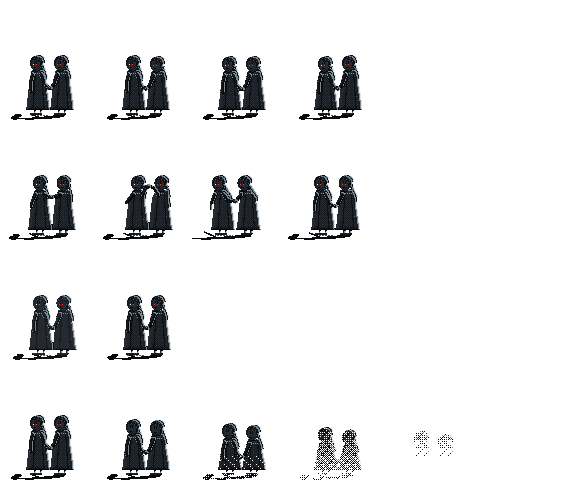
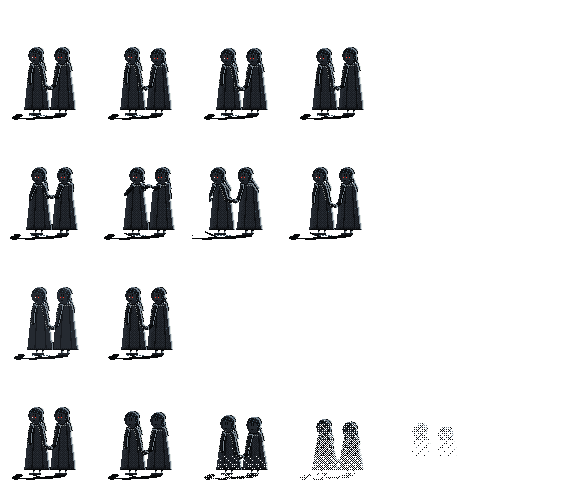
Zugabe: Funkstation am Pol fertig (Note 4, Gegner im Kampf mit kaltem Randlicht lesbar, biom-test 12/19)
Claude-Session: https://claude.ai/code/session_01TghvEfjLh3w7y1uAeKR46M

diff --git a/prototype/js/scenes/world/funkstation.js b/prototype/js/scenes/world/funkstation.js
@@ -13,6 +13,7 @@ const EIS = ['#020101', '#060404', '#0b0807', '#110c0a', '#18110d', '#201712', '
 const HIMMEL = ['#040303', '#080606', '#0d0a08', '#130e0c', '#1a1410', '#231a15', '#2e221b', '#3b2c22'];
 const HOLZ = ['#070504', '#0f0a07', '#18100b', '#231710', '#301f15', '#3f291b', '#523524'];
 const KUPFER = ['#2a150b', '#4e2a16', '#7a4222', '#a85c30', '#c0703e', '#e2a070'];
+const KALT = ['#0c1014', '#141b22', '#1e2832', '#2a3846', '#3a4a5a', '#4e6070', '#647686'];
 const OR = '#ff8a2a', OR_K = '#fff2d6', OR_G = '#3a1a08', OR_G2 = '#5c2a0e', PAPIER = '#cbb8a2';
 const frac = v => v - Math.floor(v);
 const schneeMat = (ton, x) => Object.assign({ k: SCHNEE.slice(1, 9), r: ['#a48a74', '#ece0d2'], ton, fase: 1.5, rand: 2, schatten: 2, muster: (px, py) => (B.fbm(px * .07, py * .2, 5, 2) - .5) * .9 }, x || {});
@@ -88,7 +89,7 @@ function mast(K, eb, x, yb, yt, wb, tiefe, o) {
   // Abspannseile mit Eishaar
   (o.seile || []).forEach(([fy, ax, ay]) => {
     const sx = (L(fy) + R(fy)) / 2, sy = fy, n = Math.ceil(Math.hypot(ax - sx, ay - sy));
-    const e = K.e[o.seilEbene || eb], c = B.pk(B.mix('#16110d', K.fern, tiefe)), cl = B.pk(B.mix(SCHNEE[9], K.fern, tiefe * .8)), cd = B.pk(B.mix(SCHNEE[5], K.fern, tiefe));
+    const e = K.e[o.seilEbene || eb], c = B.pk(B.mix('#16110d', K.fern, tiefe)), cl = B.pk(B.mix(o.hell ? SCHNEE[9] : SCHNEE[7], K.fern, tiefe * .8)), cd = B.pk(B.mix(SCHNEE[4], K.fern, tiefe));
     const r = B.rng(Math.round(ax * 13 + ay));
     for (let i = 0; i <= n; i++) { const q = i / n, px = sx + (ax - sx) * q, py = sy + (ay - sy) * q + Math.sin(q * Math.PI) * n * .03; e.set(px, py, c);
       if (i % 2 === 0 && r() < .75 && q > .04 && q < .96) { const len = Math.round((2 + r() * 10) * (o.haar || 1) * (1 - Math.abs(q - .45))); for (let j = 1; j <= len; j++) e.set(px + Math.sin(j * .5 + i) * .4, py + j, j < len * .4 ? cl : (j % 2 || j < len * .7) ? cd : 0); } }
@@ -185,11 +186,11 @@ function morsetisch(K, x, y, s) {
   return { ex, ey, ew, eh };
 }
 // Regal mit Glasakkus (Kupferplatten in Säure)
-function akkuregal(K, eb, x, y, w, h, tiefe) {
-  const m = B.maske(); for (let i = 0; i < 4; i++) m.rect(x, y - h + i * h / 3.2, w, 3); m.rect(x, y - h, 3, h); m.rect(x + w - 3, y - h, 3, h); K.form(eb, m, tiefe, holzMat(1.4));
+function akkuregal(K, eb, x, y, w, h, tiefe, still) {
+  const m = B.maske(); for (let i = 0; i < 4; i++) m.rect(x, y - h + i * h / 3.2, w, 3); m.rect(x, y - h, 3, h); m.rect(x + w - 3, y - h, 3, h); K.form(eb, m, tiefe, holzMat(1.4, still ? { rand: 0 } : {}));
   for (let r = 0; r < 3; r++) for (let i = 0; i < Math.floor(w / 13); i++) { const ax = x + 6 + i * 13, ay = y - h + (r + 1) * h / 3.2 - 1, ah = h / 3.2 - 5; const a = B.maske(); a.rect(ax, ay - ah, 9, ah);
-    K.form(eb, a, tiefe, { k: ['#0a0807', '#16110d', '#241b15', '#3a2c22'], r: ['#8a7262', '#e0cdb8'], ton: 1.2, fase: 0, rand: 1, muster: (px, py) => ((Math.round(px - ax) === 3 || Math.round(px - ax) === 6) && py > ay - ah + 2 ? 1.6 : 0) });
-    for (let j = 2; j < ah; j++) { K.e[eb].set(ax + 3, ay - ah + j, B.pk(B.mix(KUPFER[3], K.fern, tiefe))); K.e[eb].set(ax + 6, ay - ah + j, B.pk(B.mix(KUPFER[2], K.fern, tiefe))); } }
+    K.form(eb, a, tiefe, { k: ['#0a0807', '#16110d', '#241b15', '#3a2c22'], r: ['#8a7262', '#e0cdb8'], ton: 1.2, fase: 0, rand: still ? 0 : 1, muster: (px, py) => ((Math.round(px - ax) === 3 || Math.round(px - ax) === 6) && py > ay - ah + 2 ? 1.6 : 0) });
+    for (let j = 2; j < ah; j++) { K.e[eb].set(ax + 3, ay - ah + j, B.pk(B.mix(KUPFER[still ? 1 : 3], K.fern, tiefe))); K.e[eb].set(ax + 6, ay - ah + j, B.pk(B.mix(KUPFER[still ? 0 : 2], K.fern, tiefe))); } }
 }
 function kabelDecke(K, eb, n, x0, x1, y1) { const r = B.rng(K.o.seed * 5 + 3); for (let i = 0; i < n; i++) { const a = r.f(x0, x1), b = a + r.f(-60, 60); draht(K, eb, a, -M, b, -M, r.f(20, y1), '#0a0705'); } }
 
@@ -202,7 +203,7 @@ function amMast(K) {
   // Ferne: niedrige Presseisrücken
   const fern = B.maske(); fern.fn(-M, vy - 20, W + M, vy + 2, (x, y) => y > vy - 2 - B.rausch1(x * .05, K.o.seed) * 7 - Math.max(0, Math.sin(x * .013) * 5)); K.form(1, fern, .6, schneeMat(1.2));
   // Hütte links im Mittelgrund
-  const hu = huette(K, 2, 34, vy + 14, 92, 42, .05, { offen: true });
+  const hu = huette(K, 2, -14, vy + 12, 70, 34, .12, { offen: true });
   // Mast rechts, steigt aus dem Bild
   const ms = mast(K, 2, 356, vy + 24, -M - 4, 34, 0, { seile: [[30, 236, vy + 18], [30, 488, vy + 30], [92, 282, vy + 20], [92, 452, vy + 26], [4, 196, vy + 14]], haar: 1.8 });
   void ms;
@@ -228,27 +229,26 @@ function amMast(K) {
 // rechts das Akkuregal. Der Papierstreifen läuft über die Dielen in eine Ritze, aus der es orange blinkt.
 function funkraum(K) {
   const fr = K.fr, vy = 150, P = B.persp(250, vy); K.split = [158, 172];
-  wand(K, vy, { lichter: [{ x: 110, y: 110, r: 170, s: .6 }, { x: 380, y: 60, r: 120, s: .25 }] });
-  fenster(K, 1, 196, 30, 92, 64, { mastX: 262, hell: .5 });
-  // Kalender, Karte an der Wand
-  const ka = B.maske(); ka.rect(310, 46, 30, 40); K.form(1, ka, .1, { k: ['#2a2018', '#3e3024', '#54443a', '#6e5c4c'], r: ['#a48a74', '#d8c4ac'], ton: 1.2, fase: 0, rand: 1, muster: (px, py) => (Math.round(py) % 6 === 0 ? -1 : 0) + (B.hash(px, py, 3) < .1 ? -.8 : 0) });
-  const kk = B.maske(); kk.rect(352, 40, 46, 32); K.form(1, kk, .15, { k: ['#2a2018', '#3e3024', '#54443a', '#6e5c4c'], r: ['#a48a74', '#d8c4ac'], ton: 1.6, fase: 0, rand: 1, muster: (px, py) => (Math.abs(B.fbm(px * .1, py * .1, 2, 2) - .5) < .03 ? -1.2 : 0) });
-  kabelDecke(K, 1, 5, 20, 460, 40);
-  dielen(K, P, vy, { lichter: [{ x: 120, y: vy + 10, r: 160, s: .7 }] });
-  const mt = morsetisch(K, 2, vy + 30, 1.8);
-  akkuregal(K, 2, 400, vy + 2, 80, 76, .05);
+  // Wand: in der Mitte, wo die Gegner stehen, dunkel und ruhig; Licht nur an den Rändern (Lampe links)
+  wand(K, vy, { lichter: [{ x: 10, y: 120, r: 120, s: .55 }] });
+  B.dith(K.e[1], 110, -M, 430, vy + 2, HOLZ[0], (x, y) => .55 * Math.min(1, Math.min(x - 110, 430 - x) / 50) * Math.min(1, (vy + 2 - y) / 30));
+  // Fenster hoch über den Köpfen: kaltes Schneelicht, ruhig; der Mast als dünne Senkrechte
+  fenster(K, 1, 196, 6, 92, 34, { mastX: 262, hell: .55 - fr * .2, aussen: KALT });
+  kabelDecke(K, 1, 3, 20, 140, 26);
+  dielen(K, P, vy, { lichter: [{ x: 30, y: vy + 20, r: 140, s: .55 }] });
+  // Morsetisch ganz links, angeschnitten; Röhren klein und warm am Rand
+  const mt = morsetisch(K, -62, vy + 30, 1.6);
+  // Akkuregal rechts am Rand, ohne helle Kanten
+  akkuregal(K, 2, 432, vy + 2, 70, 70, .25, true);
   // Streifen vom Tisch über die Dielen in die Ritze; dort blinkt es
-  const [rx, ry] = P.q(.8, 0, 3.4);
-  streifen(K, [[mt.ex + 10, vy + 28], [mt.ex + 40, vy + 34], [rx - 40, ry - 6], [rx - 6, ry]], 2);
+  const [rx, ry] = P.q(1.4, 0, 2.6);
+  streifen(K, [[mt.ex + 40, vy + 30], [mt.ex + 70, vy + 44], [rx - 40, ry - 4], [rx - 6, ry]], 2);
   const ri = B.maske(); ri.poly([[rx - 10, ry - 1], [rx + 24, ry - 3], [rx + 26, ry + 1], [rx - 8, ry + 3]]); B.form(K.e[K.eb(ry)], ri, { k: [B.pk('#000000'), B.pk('#120805')], ton: 0, fase: 0, rand: 0 });
   K.anim.push({ p: B.PAR[K.eb(ry)], f(ctx, t, ox, oy) { const bit = MORSE[Math.floor(t * 3.2) % MORSE.length]; ctx.fillStyle = bit ? OR : '#3a1a08'; ctx.fillRect(Math.round(rx - 6) + ox, Math.round(ry) + oy, 28, 1); } });
   B.gluehen(K.e[K.eb(ry)], rx + 8, ry, 24, OR_G, .6 + fr * .3);
-  // Ofen rechts hinten (kalt), Stuhl
-  const of = B.maske(); of.ell(366, vy - 18, 13, 15); of.rect(356, vy - 6, 20, 4); of.rect(357, vy - 2, 2, 4); of.rect(373, vy - 2, 2, 4); of.rect(363, -M, 6, vy - 30 + M); of.rect(354, vy - 34, 24, 3); K.form(2, of, .05, eisenMat(1.3, { rand: 2, fase: 1.5, muster: (px, py) => (Math.abs(py - (vy - 22)) < .6 ? .8 : 0) }));
-  const st = B.maske(); st.rect(160, vy - 10, 22, 3); st.rect(162, vy - 10, 2, 16); st.rect(178, vy - 10, 2, 16); st.rect(178, vy - 34, 2, 26); K.form(3, st, 0, holzMat(1.5));
   // Vordergrund: Tischkante unten links, Kabelbündel rechts
   const v = B.maske(); v.rect(-M, 246, 120, 40); v.kap(400, H + M, 470, 224, 6, 4); v.kap(430, H + M, 492, 236, 5, 4); K.form(5, v, 0, holzMat(1.1));
-  B.partikel(K, { n: 18, farben: [HOLZ[5], SCHNEE[8]], vx: 1, vy: .5, wob: 1.5, wf: .2, x0: 0, x1: 480, y0: 0, y1: 240, p: .8 });
+  B.partikel(K, { n: 14, farben: [HOLZ[5], KALT[3]], vx: 1, vy: .5, wob: 1.5, wf: .2, x0: 0, x1: 480, y0: 0, y1: 240, p: .8 });
   K.reihen = [{ y: 168, skala: .9, nebel: .15 }, { y: 192, skala: 1, nebel: .05 }, { y: 214, skala: 1, nebel: 0 }];
   return { mitte: [250, 208], P };
 }

diff --git a/prototype/js/scenes/world/waage.js b/prototype/js/scenes/world/waage.js
@@ -187,7 +187,7 @@ function registratur(K, P, X, Z0, Z1, o) {
   for (let Z = Z0; Z <= Z1; Z *= 1.03) { unten.push(P.q(X, 0, Z)); oben.push(P.q(X, hoehe + Math.sin(Z) * .4, Z)); }
   const m = B.maske(); m.poly([...unten, ...oben.reverse()]);
   const seite = X < 0 ? -1 : 1;
-  K.form(eb, m, o.tiefe || .05, holzMat(2.2, { muster: (x, y) => { const Z = (X * P.h) / Math.max(1, Math.abs(x - P.vx)) * Math.sign(X * (x - P.vx) || 1), Y = 1 - (y - P.vy) * Z / P.h; const fz = frac(Z / .35), fy = frac(Y / .28);
+  K.form(eb, m, o.tiefe || .05, holzMat(3.4, { k: KACHEL.slice(2, 10), r: [KACHEL[11], '#e6dcbc'], muster: (x, y) => { const Z = (X * P.h) / Math.max(1, Math.abs(x - P.vx)) * Math.sign(X * (x - P.vx) || 1), Y = 1 - (y - P.vy) * Z / P.h; const fz = frac(Z / .35), fy = frac(Y / .28);
     if (fz < .08 || fy < .1) return -1.4; const id = Math.floor(Z / .35) * 31 + Math.floor(Y / .28); return (B.hash(id, 1, 5) < .05 ? -2 : 0) + (fy > .4 && fy < .55 && fz > .4 && fz < .6 ? 2.2 : 0) + (B.hash(id, 2, 5) - .5) * .5 - Y * .07; } }));
   void seite;
   return m;
@@ -242,7 +242,7 @@ function halle(K, o) {
   bahnen(K, [[430, .07, .5], [330, .05, .45], [520, .09, .4]], [1, 2]);
   // Schalter in der Rückwand
   for (const X of [-3.6, -1, 3.4]) { const [x, y] = P.q(X, 0, 10.8), k = P.k(10.8); schalter(K, x - k * .7, y, k * 1.4, k * 1.25, 1, { tiefe: .22 }); }
-  const wg = waage(K, P, { X: -1.2, Z: 7.4, Yb: 7.6, L: 8.4, kipp: .1 + fr * .05, tiefL: 6.2, tiefR: 2.6, zunge: 1.8, schale: 1.5, ebene: 2, tiefe: .06 });
+  const wg = waage(K, P, { X: -3.6, Z: 7.4, Yb: 7.6, L: 8.4, kipp: .1 + fr * .05, tiefL: 6.2, tiefR: 2.6, zunge: 1.8, schale: 1.5, ebene: 2, tiefe: .06 });
   bank(K, P, -6.2, -4.3, 3.1, { leer: .2 });
   bank(K, P, -6.3, -4.6, 5.6, { leer: .3, tiefe: .1 });
   if (fr > .5) bank(K, P, 4.6, 6.2, 4.4, { leer: .35, tiefe: .05 });
@@ -280,13 +280,13 @@ function schalterhalle(K, o) {
     if (an) { K.glut((a[0] + b[0]) / 2, a[1] - h * .66, h * 1.1, LAMPE_G, .8, [2, 3]); K.licht((a[0] + b[0]) / 2, a[1] - h * .66, LAMPE, h, .6); }
   }
   // Registratur links, bis ins Wasser
-  registratur(K, P, -3.4, 1.1, 22, { hoehe: 9, ebene: 2 });
+  registratur(K, P, -4.4, 1.1, 22, { hoehe: 9, ebene: 2 });
   // Leiter an der Registratur
-  const lm = B.maske(), l0 = P.q(-3.1, 0, 3.2), l1 = P.q(-3.3, 5.5, 3.6); lm.kap(l0[0], l0[1], l1[0], l1[1], 1.4, 1.2); lm.kap(l0[0] + 12, l0[1], l1[0] + 10, l1[1], 1.4, 1.2);
+  const lm = B.maske(), l0 = P.q(-4.1, 0, 3.2), l1 = P.q(-4.3, 5.5, 3.6); lm.kap(l0[0], l0[1], l1[0], l1[1], 1.4, 1.2); lm.kap(l0[0] + 12, l0[1], l1[0] + 10, l1[1], 1.4, 1.2);
   for (let i = 1; i < 12; i++) { const q = i / 12; lm.kap(l0[0] + (l1[0] - l0[0]) * q, l0[1] + (l1[1] - l0[1]) * q, l0[0] + 12 + (l1[0] - l0[0] - 2) * q, l0[1] + (l1[1] - l0[1]) * q, .8, .8); }
   K.form(3, lm, 0, holzMat(2));
   // Papierbahnen aus einer offenen Schublade, steigen ins Wasser
-  const pb = B.maske(), s0 = P.q(-3.3, 2.2, 5.2); for (let j = 0; j < 3; j++) { const pts = []; for (let i = 0; i <= 12; i++) pts.push([s0[0] + j * 4 + Math.sin(i * .6 + j) * (2 + i * .5), s0[1] - i * 8]); pb.pfad(pts, 1.6, 1.2); }
+  const pb = B.maske(), s0 = P.q(-4.3, 2.2, 5.2); for (let j = 0; j < 3; j++) { const pts = []; for (let i = 0; i <= 12; i++) pts.push([s0[0] + j * 4 + Math.sin(i * .6 + j) * (2 + i * .5), s0[1] - i * 8]); pb.pfad(pts, 1.6, 1.2); }
   K.form(2, pb, .05, { k: KACHEL.slice(6, 11), r: ['#e6dcbc'], ton: 2.2, fase: 0, rand: 1 });
   papier(K, 30, { x0: 0, x1: 300 });
   B.partikel(K, { n: 30, farben: [WASSER[8], LICHTNETZ[0]], vx: 0, vy: -5, wob: 2, wf: .5, p: .5 });

diff --git a/tools/sprites/gegner/zwillinge.js b/tools/sprites/gegner/zwillinge.js
@@ -19,9 +19,9 @@ module.exports = {
   id: 'zwillinge', biom: 'waisenhaus', zone: 'waisenhaus', w: 96, h: 120, fuss: [52, 115], kopf: [50, 46], rimBis: 113,
   varianten: {
     // a: nebeneinander, offenes Haar; den Schatten wirft die vordere (linke)
-    zwillinge_a: { xs: [40, 64], schatten: 0, zoepfe: false },
+    zwillinge_a: { xs: [38, 64], schatten: 0, zoepfe: false },
     // b: Zöpfe; den Schatten wirft die hintere (rechte), er läuft unter der vorderen hindurch
-    zwillinge_b: { xs: [38, 62], schatten: 1, zoepfe: true },
+    zwillinge_b: { xs: [37, 63], schatten: 1, zoepfe: true },
   },
   // Silhouetten-Probe (verworfen): die beiden eng hintereinander, fast deckungsgleich; schwarz ein einzelnes Kind
   // mit breitem Rock (zu nah am Schlafwagenkind). Erst der Abstand und die gefassten Hände zeigen zwei.
@@ -37,9 +37,9 @@ module.exports = {
     if (p.tod) { fall = r(p.q * 20); }
     const kinder = v.xs.map((x0, i) => {
       const cx = x0 + dx + (i === 0 ? 0 : -dx * 0.2), T = atem[i] + fall * (i === 0 ? 1 : 1.2);
-      const top = FY - 58 + T;
-      const hemd = Pg([[cx - 5 + lean, top + 15], [cx + 5 + lean, top + 15], [cx + 7, top + 22], [cx + 11, FY - 7], [cx + 11, FY - 5], [cx - 11, FY - 5], [cx - 10, FY - 7], [cx - 7, top + 22]], 'haut', { rd: 1.4, tone: 0.18 });
-      const kopf = E(cx - 1 + lean, top + 7, 7, 7.6, 'haut', { pf: 'bevel', tone: 0.1 });
+      const top = FY - 66 + T;
+      const hemd = Pg([[cx - 5.5 + lean, top + 16], [cx + 5.5 + lean, top + 16], [cx + 7.5, top + 24], [cx + 12, FY - 7], [cx + 12, FY - 5], [cx - 12, FY - 5], [cx - 11, FY - 7], [cx - 7.5, top + 24]], 'haut', { rd: 1.4, tone: 0.18 });
+      const kopf = E(cx - 1 + lean, top + 7.5, 7.6, 8.2, 'haut', { pf: 'bevel', tone: 0.1 });
       // Haar: offen bis zur Hüfte (a) oder zwei Zöpfe (b), hinten
       const haar = [];
       if (!v.zoepfe) haar.push(Pg([[cx + 1 + lean, top - 0.5], [cx + 7 + lean, top + 3], [cx + 8 + lean * 0.5, top + 18], [cx + 8, top + 32], [cx + 4, top + 34], [cx + 2, top + 16]], null, { rd: 1 }));
@@ -104,7 +104,7 @@ module.exports = {
           P.set(x, y, (x * 3 + y) % 9 === 0 ? 'nass' : (x - K.cx) % 3 === 0 ? 'k0' : c > 2 ? 'k2' : 'k1');
         }
         // Gesicht: Scheitel nass, Pony über der Stirn; Augen rot; das Kind ohne Schatten hat die helleren
-        const kx = K.cx - 1 + lean, ky = K.top + 8;
+        const kx = K.cx - 1 + lean, ky = K.top + 8.5;
         for (let y = r(ky - 8); y <= r(ky + 8); y++) for (let x = r(kx - 8); x <= r(kx + 8); x++) {
           if (!ist(x, y, KOPF[i])) continue; const c = P.get(x, y); if (c < 1 || c > 4) continue;
           const ddx = x + 0.5 - kx, ddy = y + 0.5 - ky;

diff --git a/tools/sprites/gegner/funker.js b/tools/sprites/gegner/funker.js
@@ -107,6 +107,11 @@ module.exports = {
       // Anorak: Fellsaum hell gefleckt, Nähte (Tal und Grat), Falten vom Gürtel nach unten
       for (let x = X - 18; x <= X + 19; x += 2) { const yy = Y + 50 + ((x * 7) % 3); P.auf(x, yy, (x % 4) ? 'k3' : 'r1'); P.auf(x + 1, yy + 2, 'k1'); }
       for (const [x0, y0, x1, y1] of [[X + 6, Y - 2, X + 9, Y + 30], [X - 4, Y + 36, X - 7, Y + 50], [X + 5, Y + 36, X + 7, Y + 51], [X + 13, Y + 36, X + 16, Y + 50]]) { P.line(x0, y0, x1, y1, 'k0', true); P.line(x0 + 1, y0 + 1, x1 + 1, y1, 'k3', true); }
+      // Anorak in Bahnen: jede Bahn hat eine helle Kante (Fase) zum Licht und eine dunkle Naht; unten ein Flicken
+      for (const bx of [X - 11, X + 4, X + 11]) for (let y = Y + 36; y < Y + 50; y++) { P.auf(bx, y, 'k0'); if ((y + bx) % 2 === 0) P.auf(bx + 1, y, 'r1'); else P.auf(bx + 1, y, 'k3'); }
+      for (let y = Y + 4; y < Y + 30; y++) { P.auf(X + 12 + ((y - Y) > 16 ? 1 : 0), y, 'k0'); if (y % 2) P.auf(X + 13 + ((y - Y) > 16 ? 1 : 0), y, 'k3'); }
+      for (let y = Y + 40; y < Y + 46; y++) for (let x = X - 8; x < X - 3; x++) P.auf(x, y, (x === X - 8 || y === Y + 40) ? 'k3' : (x + y) % 3 ? 'k2' : 'k1');
+      P.glow(r(X - 2), r(Y + 6), 8, 0.35);
       // Brustlatz mit Knebelknöpfen aus Holz, Fellkante entlang der Öffnung
       for (let y = Y + 4; y < Y + 30; y += 2) { P.auf(X - 1, y, 'k3'); P.auf(X - 2, y + 1, (y >> 1) % 2 ? 'r1' : 'k2'); }
       for (let i = 0; i < 3; i++) { P.auf(X - 6, Y + 8 + i * 7, 'k3'); P.auf(X - 5, Y + 8 + i * 7, 'r1'); }

diff --git a/tools/sprites/gegner/schlagbaum.js b/tools/sprites/gegner/schlagbaum.js
@@ -110,7 +110,11 @@ module.exports = {
       if (!mantel) for (let x = rx - 14; x < rx + 22; x++) { const y = ry + 43 + ((x * 7) % 3); if (P.get(x, y) && P.get(x, y) <= 4 && (x & 1)) P.set(x, y - 1, 'k3'); }
       // Knopfreihe (Messing) und Koppelschloss
       for (let i = 0; i < 4; i++) P.auf(rx - 1, ry + 6 + i * 6, i % 2 ? 'k3' : 'messing');
-      if (mantel) { P.auf(rx - 2, ry + 30, 'messing'); P.auf(rx - 1, ry + 30, 'messing'); P.auf(rx - 2, ry + 29, 'r1'); }
+      if (mantel) { P.auf(rx - 2, ry + 30, 'messing'); P.auf(rx - 1, ry + 30, 'messing'); P.auf(rx - 2, ry + 29, 'r1');
+        // Kreuzriemen von der hinteren Schulter zur Hüfte, Messingbeschlag; Taschenklappen; Schulterstück
+        P.line(rx + 9, ry + 1, rx - 9, ry + 29, 'k0', true); P.line(rx + 10, ry + 1, rx - 8, ry + 29, 'r1', true); P.auf(rx, ry + 15, 'messing');
+        for (const dx of [-10, 6]) { P.line(rx + dx, ry + 38, rx + dx + 6, ry + 38, 'k0', true); P.line(rx + dx, ry + 37, rx + dx + 6, ry + 37, 'k3', true); }
+        for (let i = 0; i < 5; i++) P.auf(rx + 4 + i * 2, ry - 1 + (i % 2), i % 2 ? 'r1' : 'messing'); }
       // Mützenabzeichen, Kragenspiegel
       P.auf(r(kopfX + 1), r(kopfY - 8 - (v.muetze === 'tschako' ? 6 : 0)), 'messing');
       P.auf(rx - 6, ry - 3, 'siegel'); P.auf(rx - 5, ry - 3, 'siegel');

diff --git a/tools/sprites/gegner/telegrafistin.js b/tools/sprites/gegner/telegrafistin.js
@@ -101,7 +101,8 @@ module.exports = {
       for (const [x0, y0, x1, y1] of [[X - 4, Y + 1, X - 5, Y + 13], [X + 2, Y, X + 4, Y + 13], [X + 5, Y + 2, X + 7, Y + 12]]) { P.line(x0, y0, x1, y1, 'k1', true); P.line(x0 + 1, y0, x1 + 1, y1, 'k3', true); }
       for (let i = 0; i < 4; i++) { P.auf(X - 1, Y + 15 + i * 2, 'kupfer'); P.auf(X - 2, Y + 16 + i * 2, 'k3'); }
       // Rock: Bahnen, Saumband, eine Lichtfalte
-      for (const [x0, x1] of [[X - 4, X - 7], [X + 1, X + 1], [X + 6, X + 9]]) { P.line(x0, Y + 26, x1, 111, 'k0', true); P.line(x0 + 1, Y + 27, x1 + 1, 111, 'k2', true); }
+      for (const [x0, x1] of [[X - 6, X - 11], [X - 2, X - 4], [X + 2, X + 3], [X + 6, X + 10], [X + 10, X + 16]]) { P.line(x0, Y + 26, x1, 110, 'k0', true); P.line(x0 + 1, Y + 27, x1 + 1, 110, 'k3', true); for (let y = Y + 30; y < 108; y += 3) { const q = (y - Y - 26) / (110 - Y - 26); P.auf(r(x0 + 2 + (x1 - x0) * q), y, 'r1'); } }
+      for (let x = r(wx - 13); x <= wx + 18; x++) { P.auf(x, 106, x % 2 ? 'k3' : 'r1'); P.auf(x, 107, 'k0'); }
       P.line(r(wx - 12), 109, r(wx + 13), 109, 'k3', true);
       // Taste: Kupferhebel, am Kontakt springt ein Funke, wenn sie drückt
       const TX = r(tx), TY = r(ty);

diff --git a/prototype/js/scenes/world/waisenhaus.js b/prototype/js/scenes/world/waisenhaus.js
@@ -376,7 +376,7 @@ function halle(K, cfg) {
     const g = B.maske(); g.poly([[372, 128], [480 + M, 30], [480 + M, 34], [372, 132]]); for (let i = 0; i < 9; i++) { const x = 378 + i * 12, y0 = 128 - (x - 372) * 0.9; g.rect(x, y0, 2, 164 - (x - 372) * 0.92 - y0); } g.rect(370, 126, 6, 46); K.form(2, g, 0.05, { k: HOLZ, r: RAND, ton: 3, fase: 0, rand: 1 }); }
   // Boden: Linoleum, ein Lichtfleck des Fensters fällt nach vorn, eine lange Reihe nasser Füße quer (der Appell)
   const spuren = [];
-  if (!cfg.leer) for (let i = 0; i < 9 + Math.round(fr * 6); i++) { const X = -2.6 + i * 0.36, Z = 4.4; spuren.push([X - 0.05, Z, 0.03], [X + 0.05, Z, 0.03]); }
+  if (!cfg.leer) for (let i = 0; i < 9 + Math.round(fr * 6); i++) { const X = -2.9 + i * 0.42 + (i > 6 ? 0.5 : 0), Z = 3.6; spuren.push([X - 0.08, Z, 0.055], [X + 0.08, Z + 0.04, 0.055]); }
   boden(K, P, vy + 1, { flecken: [[[-0.9, 9], [0.9, 9], [1.6, 2.6], [-1.6, 2.6]]], spuren });
   if (cfg.leer) {
     // Übergang: ein Bett beiseitegeschoben, eine Luke im Boden, Leiter nach unten, kaltes Licht von unten

diff --git a/tools/sprites/gegner/heimleiterin.js b/tools/sprites/gegner/heimleiterin.js
@@ -100,6 +100,8 @@ module.exports = {
         if (!ist(x, y, ROCK)) continue; const c = P.get(x, y); if (c < 1 || c > 4) continue;
         const u = (y - wy) / (FY - wy);
         for (const o of [-14, -6, 3, 12, 22]) { const lx = cx + o * u * 1.1 + (o > 0 ? o * 0.15 : 0); if (Math.abs(x - lx) < 0.6) P.set(x, y, 'k0'); else if (Math.abs(x - lx - 1) < 0.6 && b(x, y) < 0.3 + u * 0.5) P.set(x, y, 'k3'); }
+        // Licht vom Fenster hinten rechts: die rechte Seite des Rocks fängt einen breiten, gedämpften Schein (Fase)
+        { let rr = x; while (ist(rr + 1, y, ROCK)) rr++; const d = rr - x; if (d < 7 && d > 1 && b(x, y) < 0.55 - d * 0.07) P.set(x, y, d < 3 ? 'k3' : 'k2'); }
         if (y > FY - 8 && y < FY - 5) P.set(x, y, y === FY - 7 ? 'k0' : (b(x, y) < 0.5 ? 'k3' : c));
         if (y >= FY - 1) P.set(x, y, 'k0');
       }

diff --git a/docs/auftrag-2/biome/funkstation.md b/docs/auftrag-2/biome/funkstation.md
@@ -17,9 +17,9 @@ Auf dem schwarzen Eis steht eine Hütte aus Teerpappe und Planken, bis zu den Fe
 
 - **Wahrzeichen:** der **Antennenmast** mit dem Eishaar an den Seilen (V0 riesig in der Mitte, in der Hütte durch das Fenster, im Wächter-Raum hinter der Scheibe) und der **Morsetisch** mit Taste, Kopfhörer, Röhrenempfänger und Lampe (V1 im Funkraum, Ereignis, Krämer).
 - **Falsches Detail:** Die Morsezeichen kommen **von unter dem Eis**, und sie buchstabieren deinen Namen, bevor du ihn gesagt hast. Im Bild: Unter dem schwarzen Eis blinken Lichter in Kurz und Lang, in einer Reihe, die genau auf dich zuläuft (animiert, nie erklärt). Der Antennendraht führt nicht von Mast zu Mast, sondern vom Mast **in ein Loch im Eis**. Der Papierstreifen des Schreibempfängers läuft aus der Tür, über den Schnee, in dasselbe Loch.
-- **Palette:** Bakelit-Braun nahe Schwarz (`#060403 … #311d14`), Randlicht Schneeweiß im Lampenlicht (`#a48a74` / `#f4ebe0`), Augen und Röhren warmes Röhrenorange (`#ff8a2a`, Kern `#fff2d6`), Zusatzfarbe Kupfer (`#c0703e`) für Spulen, Drähte, Kopfhörer. Der Schnee in den Szenen ist warm-weiß im Lampenlicht und braungrau im Schatten, das Eis darunter schwarzbraun.
+- **Palette:** Bakelit-Braun nahe Schwarz (`#060403 … #311d14`), Randlicht der Figuren **kaltes Schneelicht** aus Fenstern und Polarhimmel (`#6a8698` / `#d6eaf4`), ein Ton, der im warmen Hintergrund nicht vorkommt, Augen und Röhren warmes Röhrenorange (`#ff8a2a`, Kern `#fff2d6`), Zusatzfarbe Kupfer (`#c0703e`) für Spulen, Drähte, Kopfhörer. Der Schnee in den Szenen ist warm-weiß im Lampenlicht und braungrau im Schatten, das Eis darunter schwarzbraun.
 - **Abgrenzung im Akt:** Schwarzes Eis ist blau mit roten Augen, die Walkathedrale Knochenweiß in Blauschwarz, das Glasmeer Schwarzglas und Polarlicht-Grün, der Mond Asche und Silber. Die Funkstation ist das einzige **warme** Biom des Akts: Röhrenorange und Bakelit gegen Schnee. Bildaufbau sind **Senkrechte und Drähte** (Mast, Seile, Antennen, Kabel, Papierstreifen), Menschenwerk von 1912, kein Knochen, kein Glas, kein Mond, kein Nordlicht.
-- **Licht:** Gegenlicht oben rechts ist der Schein der Röhren und Lampen auf Schnee (warmweiß). Dazu das Orange der Röhren als Innenlicht und, von unten, die Morselichter unter dem Eis.
+- **Licht:** Die Szenen sind warm (Bakelit, Röhren, Lampen nur an den Rändern), die Figuren tragen kaltes Randlicht vom Schnee draußen; so lösen sie sich vom Sepia des Raums. Dazu das Orange der Röhren als Innenlicht und, von unten, die Morselichter unter dem Eis.
 - **Krämer:** **Der Proviantmeister** (`art: tausch`). Er führt seit 1912 Inventur und gibt nichts heraus, was nicht von der Liste gestrichen wird: Für jedes Stück, das du nimmst, kommt eins von dir auf die Liste. Die Liste muss stimmen, sagt er, sonst merkt man unten, dass einer fehlt.
 
 ## Hintergrund: Kompositionen
@@ -34,9 +34,9 @@ Grundform **die Senkrechte mit Drähten**: Mast, Seile, Antennenlitzen, Kabel, P
 - **Hinter den Gegnern:** die beleuchtete Schneefläche zwischen Hütte und Mast mit Spuren, Wehen und dem Papierstreifen.
 
 ### Variante 1: Der Funkraum
-- **Innen.** Plankenwand hinten, ein Fenster mit Eisblumen, dahinter der Mast als dunkle Senkrechte. Horizont (Bodenkante) y 150, Dielenboden mit Fluchtlinien.
-- **Aufbau:** Links der **Morsetisch**: Röhrenempfänger mit vier glühenden Röhren, Morsetaste, Kopfhörer am Haken, Petroleumlampe, Logbuch. Rechts Regale mit Glasakkus und Kupferspulen. Von der Decke hängen Kabel. Der Papierstreifen des Schreibers läuft vom Tisch über die Dielen und verschwindet in einer Ritze, durch die von unten orange Licht blinkt.
-- **Hinter den Gegnern:** die Plankenwand im Lampenlicht, mit Kalender, Karte, Kabelbündeln.
+- **Innen.** Plankenwand hinten, hoch über den Köpfen ein schmales Fenster mit kaltem Schneelicht, dahinter der Mast als dunkle Senkrechte. Horizont (Bodenkante) y 150, Dielenboden mit Fluchtlinien.
+- **Aufbau:** Am linken Rand, angeschnitten, der **Morsetisch**: Röhrenempfänger mit vier glühenden Röhren, Morsetaste, Kopfhörer, Petroleumlampe (das warme Licht nur am Rand). Am rechten Rand ein Akkuregal ohne helle Kanten. Der Papierstreifen läuft über die Dielen in eine Ritze, durch die von unten orange Licht blinkt.
+- **Hinter den Gegnern:** die Plankenwand, in der Mitte dunkel und ruhig gedithert (keine hellen Strichkanten), damit die Figuren mit ihrem kalten Randlicht stehen.
 
 ### Variante 2: Das Eisloch
 - **Horizont** y 140. Weit draußen auf dem blank gefegten schwarzen Eis, die Station klein in der Ferne links mit einem Licht, der Mast als Strich.
@@ -147,7 +147,14 @@ d-Moll, Grundton 50 (Schwarzes Eis 54, Walkathedrale 45, Glasmeer 56, Mond 48). 
 - `node tools/test-ereignisse.js` und `node tools/test-run.js`: „Alles gut.“
 
 ### Abstimmung
-Erste Werte (normale Gegner 18–26 Leben, Wächter 78): `biom-test funkstation 20` 17/19 überstanden (89 %, zu leicht; ein Seed starb schon im Vorlauf). Erhöht: alle normalen Gegner +3 Leben und +1 Schaden, Rauschen heilt 5, Wächter 86 Leben und je Schlag +1. Danach **13/19 (68 %)**, 0 Fehler. Die Niederlagen verteilen sich auf den schweren Kampf (Telegrafistin verstopft die Hand, Funker spielt große Karten zurück) und den Wächter in Phase 2, wenn das gerufene Rauschen ihn heilt.
+Erste Werte (normale Gegner 18–26 Leben, Wächter 78): `biom-test funkstation 20` 17/19 überstanden (89 %, zu leicht; ein Seed starb schon im Vorlauf). Erhöht: alle normalen Gegner +3 Leben und +1 Schaden, Rauschen heilt 5, Wächter 86 Leben und je Schlag +1. Danach 13/19 (68 %); letzter Lauf nach der Überarbeitung der Bilder (Werte unverändert, die anderen Akte haben sich durch parallele Pakete verschoben) **12/19 (63 %)**, 0 Fehler. Die Niederlagen verteilen sich auf den schweren Kampf (Telegrafistin verstopft die Hand, Funker spielt große Karten zurück) und den Wächter in Phase 2, wenn das gerufene Rauschen ihn heilt.
+
+### Überarbeitung nach Rückmeldung (Lesbarkeit im Kampf)
+Im ersten Kampf-Foto mit allen vier Gegnern gingen die Figuren im Funkraum unter (3,5): gleiche Sepia-Töne, Tisch, Fenster und Regale direkt hinter Funker und Mastkletterer, viele helle Kanten im Mittelgrund in derselben Farbe wie das Randlicht. Geändert:
+- **Randlicht der Figuren kalt** (Schneelicht `#6a8698`/`#d6eaf4`), ein Ton, den der warme Hintergrund nicht hat.
+- **Binnenform:** Anorak des Funkers in Bahnen mit Lichtkante und Naht, Flicken, Glut der Muschel auf der Brust; Rock der Telegrafistin in fünf Falten mit Lichtgraten und Saumband.
+- **Funkraum:** Morsetisch an den linken Rand, Fenster hoch über die Köpfe und kalt, Regal an den rechten Rand ohne Randlicht, Ofen und Wandbilder entfernt, die Wandmitte dunkel gedithert. **Mast:** Hütte nach links aus der Gegner-Zone, Eishaar an den Seilen dunkler.
+- Neue Fotos aller drei Varianten mit allen vier Gegnern: [V0](../bilder/Zugabe/funkstation/im-spiel-kampf-alle-vier-v0.png), [V1](../bilder/Zugabe/funkstation/im-spiel-kampf-alle-vier.png), [V2](../bilder/Zugabe/funkstation/im-spiel-kampf-alle-vier-v2.png). Die übrigen Fotos und Bögen sind neu erzeugt.
 
 ## Vorschläge an den Kern
 
@@ -162,14 +169,14 @@ Je Punkt 1–5: Silhouette / Licht / Pixel / Konzept / Biom / Im Spiel. Gesamt =
 
 | Bild | S | L | P | K | B | Sp | Gesamt | Begründung |
 |---|---|---|---|---|---|---|---|---|
-| Funker | 4 | 4 | 4 | 4 | 5 | 4 | **4** | Ellbogen-Flügel über dem Kopf, glühende Muschel als inneres Licht, Kabel als Schwanz bis in den Schnee: eigen und lesbar; b mit Tornister und Stabantenne. Der Anorak bleibt trotz Latz, Fellsaum, Gürtel und Nähten die größte dunkle Fläche, und das Profil (Nase, Kiefer) wirkt etwas schnabelartig. Erst nach Umbau (Kopf war ein Klumpen, Kabel kreuzte die Brust). |
-| Telegrafistin | 5 | 4 | 4 | 5 | 5 | 4 | **4** | Der Papierstreifen aus dem Mund in Schleifen bis zum Boden ist das falsche Detail und die Silhouette zugleich; b trägt ihn als Schleppe. Im Spiel liegt dazu „Dein Name“ in der Hand. Der Rock ist eine dunkle Fläche mit nur drei Bahnen; die Finger lesen sich erst im Angriff. Vorher war der Streifen eine gedithert rauschende Kette (zu unruhig), jetzt ein flaches Band. |
+| Funker | 4 | 5 | 4 | 4 | 5 | 4 | **4** | Ellbogen-Flügel über dem Kopf, glühende Muschel als inneres Licht, Kabel als Schwanz bis in den Schnee: eigen und lesbar; b mit Tornister und Stabantenne. Der Anorak ist jetzt in Bahnen mit kalten Lichtkanten gegliedert, bleibt aber die dunkelste Fläche, und das Profil (Nase, Kiefer) wirkt etwas schnabelartig. Erst nach Umbau (Kopf war ein Klumpen, Kabel kreuzte die Brust). |
+| Telegrafistin | 5 | 5 | 4 | 5 | 5 | 4 | **4** | Der Papierstreifen aus dem Mund in Schleifen bis zum Boden ist das falsche Detail und die Silhouette zugleich; b trägt ihn als Schleppe. Im Spiel liegt dazu „Dein Name“ in der Hand. Der Rock hat jetzt fünf Falten mit Lichtgraten; die Finger lesen sich erst im Angriff. Vorher war der Streifen eine gedithert rauschende Kette (zu unruhig), jetzt ein flaches Band. |
 | Mastkletterer | 5 | 4 | 4 | 4 | 5 | 4 | **4** | Der Gittermast ist eine Silhouette, die es im Spiel nicht gibt, der Isolator oben glüht; das Eishaar hängt wie ein Vorhang. Der Mann selbst wird vom Haar halb verdeckt und ist kleiner als die anderen Figuren. Umbau: Streben ohne Randlicht (vorher war der Mast heller als die Figur), Mann größer. |
 | Rauschen | 5 | 4 | 4 | 4 | 4 | 5 | **4** | Die in Bänder geschnittene Gestalt mit der Röhre als Herz liest sich sofort, jede Schnittkante fängt Licht; vor Schnee und Eis im Spiel sehr klar. Etwas frontal und steif; b ist nicht so gebückt, wie es heißen soll (breiter, Bänder weiter). Die Wolken-Probe war unlesbar. |
 | Der Sender (Wächter) | 5 | 4 | 4 | 5 | 5 | 5 | **4** | Schrank mit Spulenkrone, Trichter wie ein Kopf am Hals, Kabelwurzeln; Phase 2 mit Kupfer-Brustkorb und Gesicht hinter Glas. Das Gesicht ist schlicht (wirkt wie ein Totenkopf) und der Trichter reicht im Angriff bis an den Bildrand. Erster Entwurf las sich wie ein Spielzeugroboter (zwei Skalen als Augen, Spule als Hut) und ist ersetzt. |
 | Wächter im Spiel-Foto | 5 | 5 | 4 | 5 | 5 | 5 | **4** | Die helle, ruhige Fensterwand steht genau hinter dem dunklen Schrank, die Röhren glühen dagegen; Absicht „?“ und Name lesbar. Der Mast draußen geht hinter der Spule etwas unter. |
-| Hintergrund V0 Der Mast | 5 | 4 | 4 | 5 | 5 | 4 | **4** | Hütte mit glühendem Fenster, riesiger Mast mit Eishaar-Seilen, blankes Eis mit Morselichtern, die auf dich zulaufen. Das Loch im Eis liegt oft hinter einem Gegner, nur Draht und Streifen zeigen hin. |
-| Hintergrund V1 Der Funkraum | 4 | 4 | 4 | 5 | 5 | 4 | **4** | Morsetisch mit Röhren, Kopfhörer, Lampe; Streifen in die Ritze, aus der es blinkt; Fenster mit Mast. Die vier Röhren sind groß und hell und konkurrieren im Spiel mit Köpfen davor; der Dielenboden vorn ist ruhig (dort liegt die UI). |
+| Hintergrund V0 Der Mast | 5 | 4 | 4 | 5 | 5 | 4 | **4** | Hütte (jetzt am linken Rand) mit glühendem Fenster, riesiger Mast mit Eishaar-Seilen, blankes Eis mit Morselichtern, die auf dich zulaufen. Das Loch im Eis liegt oft hinter einem Gegner, nur Draht und Streifen zeigen hin. |
+| Hintergrund V1 Der Funkraum | 4 | 4 | 4 | 4 | 5 | 4 | **4** | Nach der Rückmeldung (vorher 3,5 im Spiel) umgebaut: Morsetisch mit Röhren und Lampe am linken Rand, kaltes Fenster über den Köpfen, Wandmitte dunkel und ruhig; alle vier Gegner stehen jetzt mit kaltem Rand klar. Der Raum ist dafür karger, der Tisch steht noch hinter dem Funker, wenn er ganz links steht. |
 | Hintergrund V2 Das Eisloch | 4 | 4 | 4 | 5 | 5 | 4 | **4** | Station klein in der Ferne, Litze auf Stangen ins Loch, blankes Eis mit zwei Lichterreihen, Zelt, Schlitten. Die Schneewehen sind etwas gleichförmig gestreift. |
 | Hintergrund Wächter Der Senderaum | 5 | 5 | 4 | 4 | 5 | 5 | **4** | Siehe oben; Akkuregale, Kabel zum blinkenden Loch im Boden. `fremdheit` verdunkelt nur die Scheiben, mehr ändert sich nicht. |
 | **Hintergrund gesamt** | | | | | | | **4** | |

diff --git a/docs/auftrag-2/fortschritt.md b/docs/auftrag-2/fortschritt.md
@@ -214,6 +214,9 @@ Allgemeiner Autospieler 30 Seeds: 47 %. **Korrigierte Ausreißer:** Brackwasser 
 | Mond: Astronom, Kraterbewohner, Mondmotte, Gezogene (neu) | Mond | 4 (Mondmotte stärkste; Gezogene: Strang liest sich als Seil) | [Zugabe](bilder/Zugabe/mond/mond-bogen.png) |
 | Die Rückseite, drei Phasen (Wächter, neu) | Mond | 4 (Augen-Krater öffnen sich je Phase, auch am Boden) | [Zugabe](bilder/Zugabe/mond/im-spiel-waechter-p3.png) |
 | Hintergrund Mond (Abstieg, Ebene, Krater, Lichthof) | Mond | 4 (Krater gleichmäßig wie Höhenlinien; Kampfbild etwas unruhig) | [Zugabe](bilder/Zugabe/mond/hintergrund-varianten.png) |
+| Funkstation: Funker, Telegrafistin, Mastkletterer, Rauschen (neu) | Funkstation | 4 (nach Rückmeldung: kaltes Randlicht statt Sepia, im Kampf vorher 3,5) | [Zugabe](bilder/Zugabe/funkstation/im-spiel-kampf-alle-vier.png) |
+| Der Sender, zwei Phasen, Funkstille unverwundbar (Wächter, neu) | Funkstation | 4 (vor heller Fensterwand klar) | [Zugabe](bilder/Zugabe/funkstation/im-spiel-waechter-p2.png) |
+| Hintergrund Funkstation (Mast, Funkraum, Eisloch, Senderaum) + 6 Ereignisbilder | Funkstation | 4 (Funkraum jetzt karger, dafür ruhig hinter den Gegnern) | [Zugabe](bilder/Zugabe/funkstation/hintergrund-varianten.png) |
 | Reliquien Ballast und Kollekte (10), Bleigürtel, Geldkatze, Handgriffe Beschweren, Münzwurf (neu) | alle | 4 (knapp: Ballaststein schlichtes Oval, Fährgeld erinnert an Mond, Hand bei Beschweren krallig) | [Zugabe](bilder/Zugabe/reliquien/kontaktbogen.png) |
 | Ereignisbilder Charge 1: 15 biomübergreifende, 6 Hafen (neu) | alle, Hafen | 4 (Kreidezeichen eher grafisch; Hafen etwas gleichförmig nachtblau) | [Zugabe](bilder/Zugabe/ereignisse/kontakt-1.png) |
 | Ereignisbilder Akt I: Moor 5, Fabrik 7, Kurhaus 6, Nachtzug 7, Leuchtturm 7 (neu) | Akt I | 4 (selbst geprüft; stark: Kühlhaus, Kontrolle, Gedeck; knapp: Kurve, Lupe) | [Zugabe](bilder/Zugabe/ereignisse/kontakt-2-fabrik.png) |
